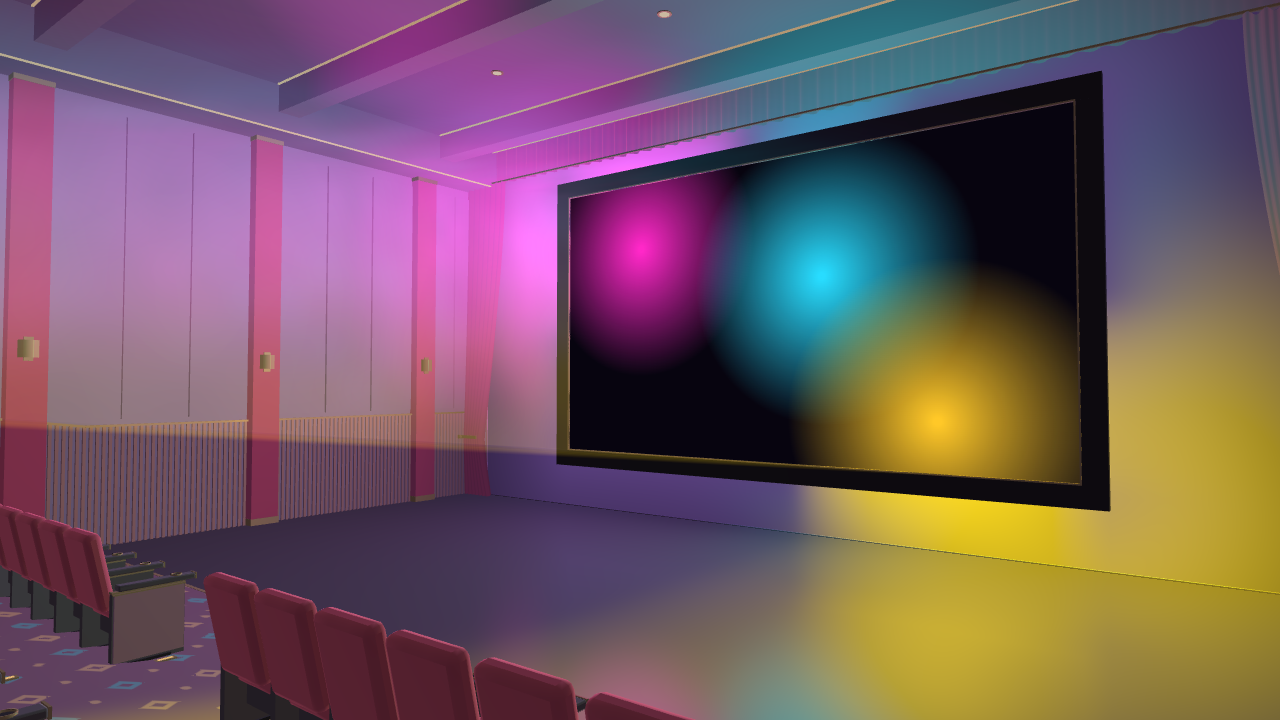
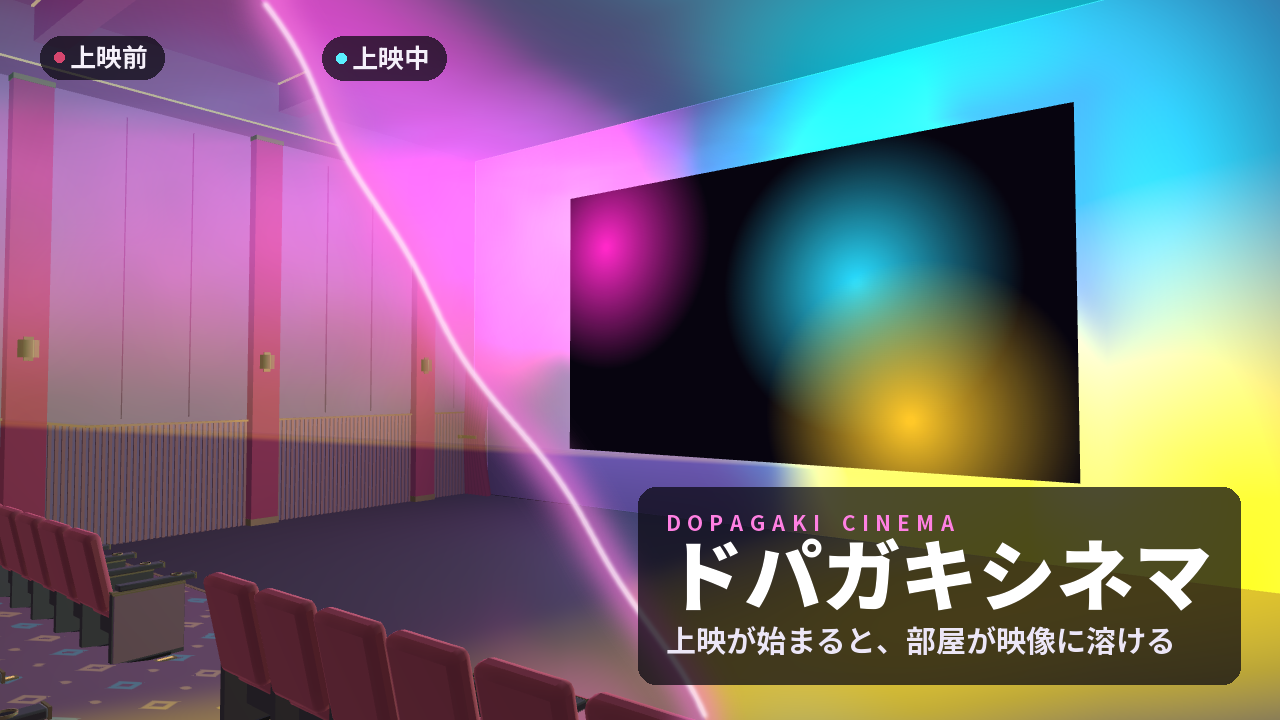
New thumbnail showing the share-driven dissolve (XRift v6)
A diagonal before/after split of the same frame: the cinema on the left,
the room dissolved into the picture on the right, with the title and hook.
Sources are captured in one page with the dissolve pinned at 0 and 1
(scripts/capture-thumb-pair.mjs) and composed by scripts/compose_thumbnail.py.
World code is unchanged from v5; uploaded as v6 (6cd8998e3605).

diff --git a/scripts/compose_thumbnail.py b/scripts/compose_thumbnail.py
@@ -1,0 +1,150 @@
+"""Compose the world thumbnail from the aligned before/after captures.
+
+Left of a diagonal seam: the cinema (dissolve 0). Right: the same frame during the show
+(dissolve 1). The seam is ragged and glows like the real dissolve rim, and runs from the
+screen side toward the seats, the same direction the room burns away in the world.
+
+Usage: python scripts/compose_thumbnail.py [DATE]   (sources: docs/screenshots/thumbnail-source-{before,after}-DATE.png)
+Writes docs/screenshots/thumbnail-v6-DATE.png and public/thumbnail.png.
+"""
+import math
+import sys
+from pathlib import Path
+
+from PIL import Image, ImageChops, ImageDraw, ImageFilter, ImageFont
+
+ROOT = Path(__file__).resolve().parent.parent
+DATE = sys.argv[1] if len(sys.argv) > 1 else '2026-11-07'
+SHOTS = ROOT / 'docs' / 'screenshots'
+W, H = 1280, 720
+FONT = Path('C:/Windows/Fonts/NotoSansJP-VF.ttf')
+FALLBACK = Path('C:/Windows/Fonts/YuGothB.ttc')
+
+TITLE = 'ドパガキシネマ'
+TITLE_EN = 'DOPAGAKI CINEMA'
+HOOK = '上映が始まると、部屋が映像に溶ける'
+LABEL_BEFORE = '上映前'
+LABEL_AFTER = '上映中'
+
+# Seam: top x, bottom x, wobble amplitude (px)
+SEAM_TOP, SEAM_BOTTOM, WOBBLE = 250, 700, 14
+
+
+def font(size: int, weight: int) -> ImageFont.FreeTypeFont:
+    if FONT.exists():
+        f = ImageFont.truetype(str(FONT), size)
+        try:
+            f.set_variation_by_axes([weight])
+        except Exception:
+            pass
+        return f
+    return ImageFont.truetype(str(FALLBACK), size)
+
+
+def seam_x(y: float) -> float:
+    base = SEAM_TOP + (SEAM_BOTTOM - SEAM_TOP) * y / H
+    # Slow, soft wobble: a burning edge, not a lightning bolt.
+    wob = math.sin(y * 0.011 + 1.3) * 0.65 + math.sin(y * 0.029 + 0.4) * 0.35
+    return base + wob * WOBBLE
+
+
+def seam_mask() -> Image.Image:
+    """White = after (right of the seam)."""
+    mask = Image.new('L', (W, H), 0)
+    px = mask.load()
+    for y in range(H):
+        sx = seam_x(y)
+        for x in range(W):
+            d = x - sx
+            px[x, y] = 255 if d >= 1 else 0 if d <= -1 else int((d + 1) * 127.5)
+    return mask
+
+
+def seam_glow(mask: Image.Image) -> Image.Image:
+    """Glowing rim along the seam: thin hot core plus a soft coloured halo."""
+    edge = mask.filter(ImageFilter.FIND_EDGES).point(lambda v: 255 if v > 30 else 0)
+    # FIND_EDGES also marks the picture's outer border; only the seam should glow.
+    inner = Image.new('L', (W, H), 0)
+    ImageDraw.Draw(inner).rectangle((3, 3, W - 4, H - 4), fill=255)
+    edge = ImageChops.multiply(edge, inner)
+    core = edge.filter(ImageFilter.MaxFilter(3)).filter(ImageFilter.GaussianBlur(2.0))
+    halo = edge.filter(ImageFilter.MaxFilter(7)).filter(ImageFilter.GaussianBlur(16))
+    glow = Image.new('RGBA', (W, H), (0, 0, 0, 0))
+    pink = Image.new('RGBA', (W, H), (255, 120, 225, 0))
+    pink.putalpha(halo.point(lambda v: min(220, int(v * 2.4))))
+    white = Image.new('RGBA', (W, H), (255, 236, 250, 0))
+    white.putalpha(core.point(lambda v: min(190, int(v * 1.1))))
+    glow = Image.alpha_composite(glow, pink)
+    return Image.alpha_composite(glow, white)
+
+
+def plate(draw: ImageDraw.ImageDraw, box, radius=16, fill=(10, 8, 16, 186)):
+    draw.rounded_rectangle(box, radius=radius, fill=fill)
+
+
+def chip(img: Image.Image, xy, text: str, accent):
+    f = font(26, 700)
+    layer = Image.new('RGBA', img.size, (0, 0, 0, 0))
+    d = ImageDraw.Draw(layer)
+    l, t, r, b = d.textbbox((0, 0), text, font=f)
+    x, y = xy
+    padx, pady = 16, 9
+    box = (x, y, x + (r - l) + padx * 2 + 14, y + (b - t) + pady * 2)
+    plate(d, box, radius=(box[3] - box[1]) // 2)
+    cy = (box[1] + box[3]) / 2
+    d.ellipse((x + padx - 2, cy - 5, x + padx + 8, cy + 5), fill=accent)
+    d.text((x + padx + 14 - l, y + pady - t), text, font=f, fill=(245, 240, 250, 255))
+    return Image.alpha_composite(img, layer)
+
+
+def main():
+    before = Image.open(SHOTS / f'thumbnail-source-before-{DATE}.png').convert('RGBA')
+    after = Image.open(SHOTS / f'thumbnail-source-after-{DATE}.png').convert('RGBA')
+    assert before.size == after.size == (W, H)
+    mask = seam_mask()
+    img = Image.composite(after, before, mask)
+    img = Image.alpha_composite(img, seam_glow(mask))
+
+    # Title block, bottom right over the lit floor.
+    layer = Image.new('RGBA', (W, H), (0, 0, 0, 0))
+    d = ImageDraw.Draw(layer)
+    ft, fe, fh = font(78, 900), font(21, 700), font(30, 700)
+    tb = d.textbbox((0, 0), TITLE, font=ft)
+    eb = d.textbbox((0, 0), TITLE_EN, font=fe)
+    hb = d.textbbox((0, 0), HOOK, font=fh)
+    en_track = 6
+    en_w = (eb[2] - eb[0]) + en_track * (len(TITLE_EN) - 1)
+    inner_w = max(tb[2] - tb[0], hb[2] - hb[0], en_w)
+    pad = 28
+    gap1, gap2 = 6, 14
+    inner_h = (eb[3] - eb[1]) + gap1 + (tb[3] - tb[1]) + gap2 + (hb[3] - hb[1])
+    right, bottom = W - 40, H - 36
+    box = (right - inner_w - pad * 2, bottom - inner_h - pad * 2, right, bottom)
+    plate(d, box, radius=18)
+    x0, y = box[0] + pad, box[1] + pad
+    # English name, letter-spaced, in the halo's pink.
+    cx = x0
+    for ch in TITLE_EN:
+        cb = d.textbbox((0, 0), ch, font=fe)
+        d.text((cx - cb[0], y - eb[1]), ch, font=fe, fill=(255, 128, 226, 255))
+        cx += (cb[2] - cb[0]) + en_track if ch != ' ' else 10 + en_track
+    y += (eb[3] - eb[1]) + gap1
+    d.text((x0 - tb[0], y - tb[1]), TITLE, font=ft, fill=(255, 255, 255, 255))
+    y += (tb[3] - tb[1]) + gap2
+    d.text((x0 - hb[0], y - hb[1]), HOOK, font=fh, fill=(236, 230, 246, 255))
+    img = Image.alpha_composite(img, layer)
+
+    # Which side is which, either side of the seam at the top.
+    img = chip(img, (40, 36), LABEL_BEFORE, (214, 70, 110, 255))
+    img = chip(img, (int(seam_x(40)) + 34, 36), LABEL_AFTER, (90, 240, 255, 255))
+
+    out = img.convert('RGB')
+    work = SHOTS / f'thumbnail-v6-{DATE}.png'
+    out.save(work, optimize=True)
+    out.save(ROOT / 'public' / 'thumbnail.png', optimize=True)
+    print(work)
+    print(ROOT / 'public' / 'thumbnail.png')
+
+
+if __name__ == '__main__':
+    main()
